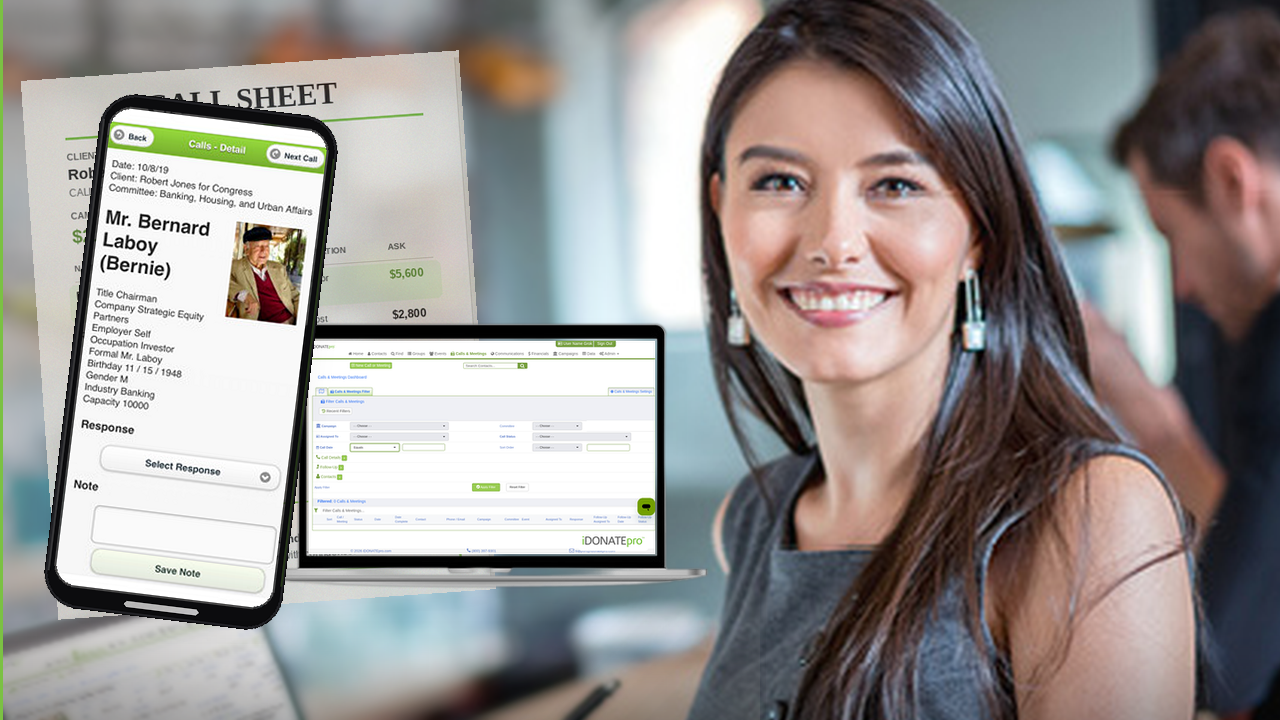
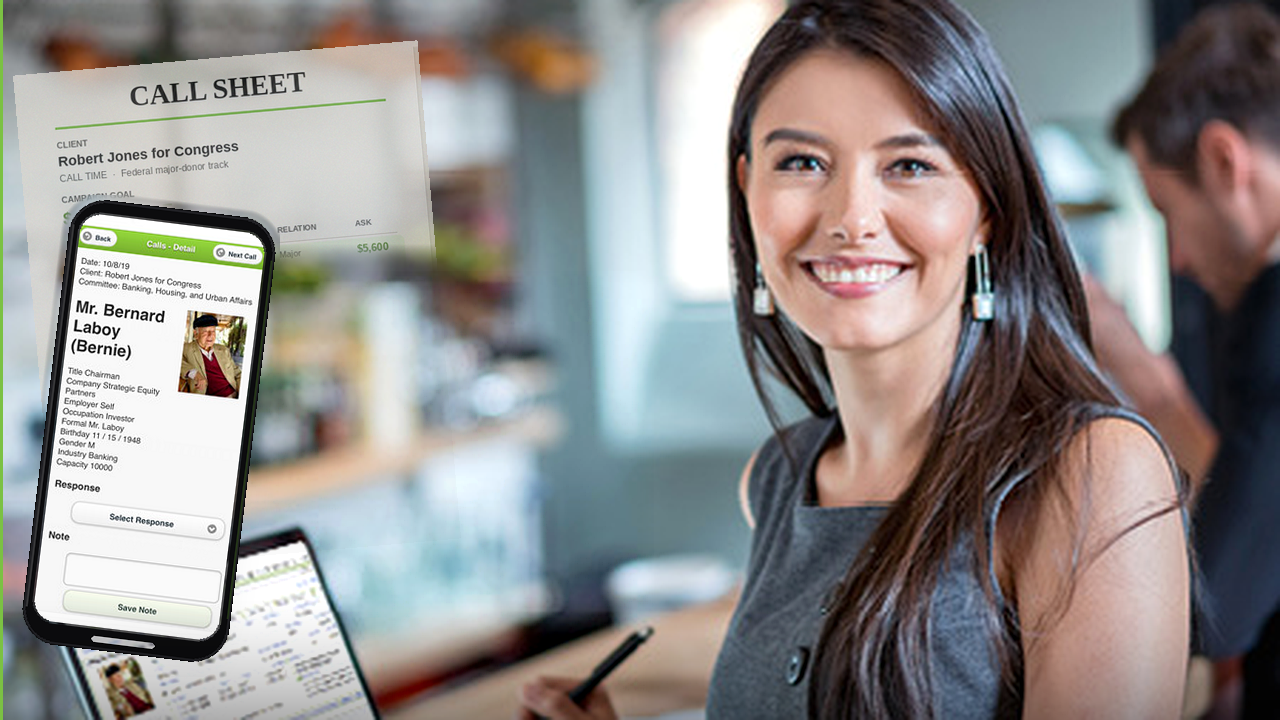
Capabilities Calls: ship Meeting Briefing lifestyle frame

diff --git a/capabilities/index.html b/capabilities/index.html
@@ -6,7 +6,7 @@
 <title>Capabilities | iDONATEpro</title>
 <meta name="description" content="Run Campaigns and Clients top to Bottom from the same Database — Contacts, Lists, Calls, Events, Communications, and Data in one Donor book.">
 <link rel="icon" href="/favicon.ico">
-<link rel="stylesheet" href="/css/site.css?v=211">
+<link rel="stylesheet" href="/css/site.css?v=212">
 </head>
 <body>
 <header class="site-header">
@@ -101,7 +101,7 @@
   <div class="wrap capability-grid">
         <div class="cap-media">
       <figure class="cap-shot">
-        <img src="/img/capabilities/calls.png?v=10" alt="Calls & Call Time story graphic" width="1280" height="720" loading="lazy">
+        <img src="/img/capabilities/calls.png?v=11" alt="Calls & Call Time story graphic" width="1280" height="720" loading="lazy">
       </figure>
     </div>
 <div class="capability-copy">

diff --git a/index.html b/index.html
@@ -6,7 +6,7 @@
 <title>iDONATEpro | Political &amp; Non Profit CRM Database Software</title>
 <meta name="description" content="Political &amp; Non Profit CRM Database Software. Designed by Fundraisers for Fundraisers — Unlimited Contacts, Campaigns, Calls, Events, and Data in one Donor Database.">
 <link rel="icon" href="/favicon.ico">
-<link rel="stylesheet" href="/css/site.css?v=211">
+<link rel="stylesheet" href="/css/site.css?v=212">
 </head>
 <body>
 <header class="site-header">

diff --git a/icons/index.html b/icons/index.html
@@ -7,7 +7,7 @@
 <meta name="robots" content="noindex, nofollow">
 <meta name="description" content="Locked iDp icon set, five finishes.">
 <link rel="icon" href="/favicon.ico">
-<link rel="stylesheet" href="/css/site.css?v=211">
+<link rel="stylesheet" href="/css/site.css?v=212">
 <style>
 section.compare-board { padding: 3.25rem 0 5rem; background: var(--bg); }
 section.compare-board .wrap-board { width: min(72rem, calc(100% - 3rem)); margin-inline: auto; }

diff --git a/who-its-for/index.html b/who-its-for/index.html
@@ -6,7 +6,7 @@
 <title>Who It's For | iDONATEpro</title>
 <meta name="description" content="iDONATEpro is built for Political Fundraisers, Campaigns & Committees, and Regional Parties & 501(c) Organizations. See who you become with a Donor book that travels with you.">
 <link rel="icon" href="/favicon.ico">
-<link rel="stylesheet" href="/css/site.css?v=211">
+<link rel="stylesheet" href="/css/site.css?v=212">
 </head>
 <body>
 <header class="site-header">

diff --git a/terms-and-conditions/index.html b/terms-and-conditions/index.html
@@ -6,7 +6,7 @@
 <title>Terms & Conditions | iDONATEpro</title>
 <meta name="description" content="CRM software for political fundraisers, campaigns, committees, regional parties, and 501(c) organizations. Book a free demo or start a 14-day trial.">
 <link rel="icon" href="/favicon.ico">
-<link rel="stylesheet" href="/css/site.css?v=211">
+<link rel="stylesheet" href="/css/site.css?v=212">
 </head>
 <body>
 <header class="site-header">

diff --git a/referral-program/index.html b/referral-program/index.html
@@ -6,7 +6,7 @@
 <title>Referral Program | iDONATEpro</title>
 <meta name="description" content="CRM software for Political Fundraisers, campaigns, committees, Regional Parties, and 501(c) Organizations. Book a free demo or start a 14-day trial.">
 <link rel="icon" href="/favicon.ico">
-<link rel="stylesheet" href="/css/site.css?v=211">
+<link rel="stylesheet" href="/css/site.css?v=212">
 </head>
 <body>
 <header class="site-header">

diff --git a/privacy-policy/index.html b/privacy-policy/index.html
@@ -6,7 +6,7 @@
 <title>Privacy Policy | iDONATEpro</title>
 <meta name="description" content="CRM software for political fundraisers, campaigns, committees, regional parties, and 501(c) organizations. Book a free demo or start a 14-day trial.">
 <link rel="icon" href="/favicon.ico">
-<link rel="stylesheet" href="/css/site.css?v=211">
+<link rel="stylesheet" href="/css/site.css?v=212">
 </head>
 <body>
 <header class="site-header">

diff --git a/testimonials/index.html b/testimonials/index.html
@@ -6,7 +6,7 @@
 <title>Testimonials | iDONATEpro</title>
 <meta name="description" content="CRM software for Political Fundraisers, campaigns, committees, Regional Parties, and 501(c) Organizations. Book a free demo or start a 14-day trial.">
 <link rel="icon" href="/favicon.ico">
-<link rel="stylesheet" href="/css/site.css?v=211">
+<link rel="stylesheet" href="/css/site.css?v=212">
 </head>
 <body>
 <header class="site-header">

diff --git a/security/index.html b/security/index.html
@@ -6,7 +6,7 @@
 <title>Security | iDONATEpro</title>
 <meta name="description" content="CRM software for political fundraisers, campaigns, committees, regional parties, and 501(c) organizations. Book a free demo or start a 14-day trial.">
 <link rel="icon" href="/favicon.ico">
-<link rel="stylesheet" href="/css/site.css?v=211">
+<link rel="stylesheet" href="/css/site.css?v=212">
 </head>
 <body>
 <header class="site-header">

diff --git a/pricing/index.html b/pricing/index.html
@@ -6,7 +6,7 @@
 <title>Pricing | iDONATEpro</title>
 <meta name="description" content="CRM software for Political Fundraisers, campaigns, committees, Regional Parties, and 501(c) Organizations. Book a free demo or start a 14-day trial.">
 <link rel="icon" href="/favicon.ico">
-<link rel="stylesheet" href="/css/site.css?v=211">
+<link rel="stylesheet" href="/css/site.css?v=212">
 </head>
 <body>
 <header class="site-header">

diff --git a/signup/index.html b/signup/index.html
@@ -6,7 +6,7 @@
 <title>Sign Up | iDONATEpro</title>
 <meta name="description" content="CRM software for Political Fundraisers, campaigns, committees, Regional Parties, and 501(c) Organizations. Book a free demo or start a 14-day trial.">
 <link rel="icon" href="/favicon.ico">
-<link rel="stylesheet" href="/css/site.css?v=211">
+<link rel="stylesheet" href="/css/site.css?v=212">
 </head>
 <body>
 <header class="site-header">

diff --git a/about/index.html b/about/index.html
@@ -6,7 +6,7 @@
 <title>About | iDONATEpro</title>
 <meta name="description" content="CRM software for Political Fundraisers, campaigns, committees, Regional Parties, and 501(c) Organizations. Book a free demo or start a 14-day trial.">
 <link rel="icon" href="/favicon.ico">
-<link rel="stylesheet" href="/css/site.css?v=211">
+<link rel="stylesheet" href="/css/site.css?v=212">
 </head>
 <body>
 <header class="site-header">
